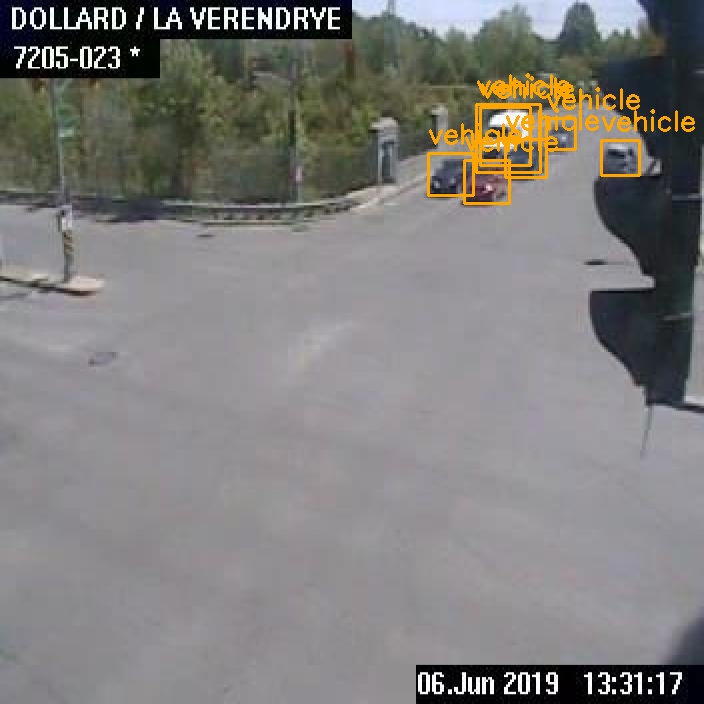
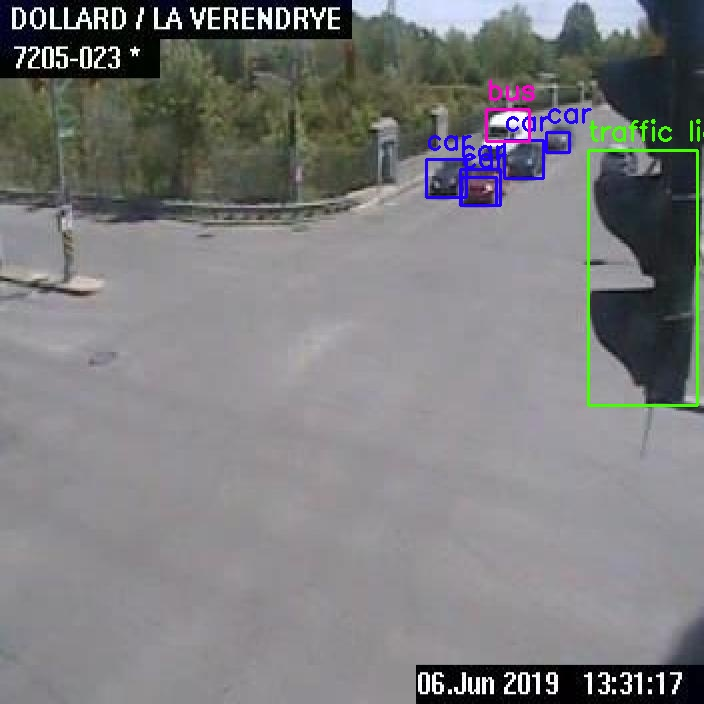
3 commit

Changed region(s): [[0.5938, 0.0938, 1.0, 0.5938]]

diff --git a/gui/main_window.py b/gui/main_window.py
@@ -3,16 +3,6 @@ from tkinter import filedialog
 from PIL import Image, ImageTk
 import cv2
 import os
-from ultralytics import YOLO
-import random
-import numpy as np
-
-
-import tkinter as tk
-from tkinter import filedialog
-from PIL import Image, ImageTk
-import cv2
-import os
 
 class MainWindow:
     def __init__(self, root, detector, video_processor):
@@ -28,6 +18,9 @@ class MainWindow:
 
         self.right_frame = tk.Frame(root)
         self.right_frame.pack(side=tk.RIGHT, fill=tk.BOTH, expand=True)
+
+        self.object_count_label = tk.Label(self.right_frame)
+        self.object_count_label.pack()
 
         # Список загруженных изображений и видео
         self.label = tk.Label(self.left_frame, text="Загруженные медиафайлы")
@@ -87,7 +80,7 @@ class MainWindow:
             self.listbox.bind('<<ListboxSelect>>', self.show_selected_media)
 
             # Отображение текущего изображения
-            self.display_image(image_with_boxes)
+            self.display_image(image_with_boxes, results)
 
     def load_video(self):
         file_path = filedialog.askopenfilename()
@@ -110,9 +103,23 @@ class MainWindow:
             else:
                 self.display_video(media_path)
 
-    def display_image(self, image):
+    def count_classes(self, results):
+        class_counts = {}
+        for result in results:
+            for cls_id in result.boxes.cls.tolist():
+                class_name = self.detector.model.names[int(cls_id)]
+                if class_name not in class_counts:
+                    class_counts[class_name] = 0
+                class_counts[class_name] += 1
+        return class_counts
+
+    def display_image(self, image, results):
         image_rgb = cv2.cvtColor(image, cv2.COLOR_BGR2RGB)
         image_pil = Image.fromarray(image_rgb)
+
+        class_counts = self.count_classes(results)
+        object_count_text = ', '.join(f"{class_name}: {count}" for class_name, count in class_counts.items())
+        self.object_count_label.config(text=object_count_text)
 
         # Resize image to fit canvas while maintaining aspect ratio
         canvas_width = self.canvas.winfo_width()

diff --git a/main.py b/main.py
@@ -14,7 +14,7 @@ def main():
         os.makedirs("processed_videos")
 
     # Инициализация детектора объектов и процессора видео
-    object_detector = ObjectDetector('best.pt')  # Используем предобученную модель YOLOv8n
+    object_detector = ObjectDetector('yolov8n.pt')  # Используем предобученную модель YOLOv8n
     video_processor = VideoProcessor(object_detector)
 
     # Графический интерфейс
